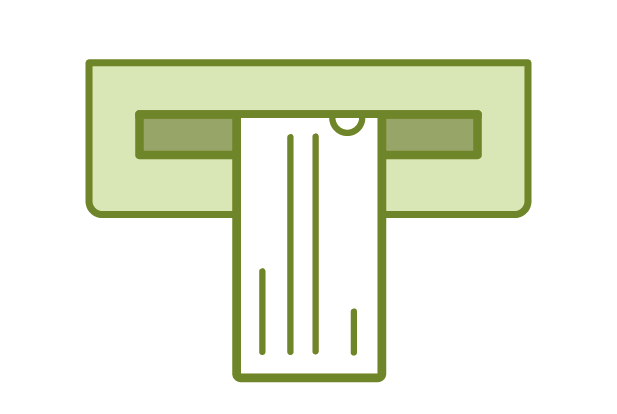
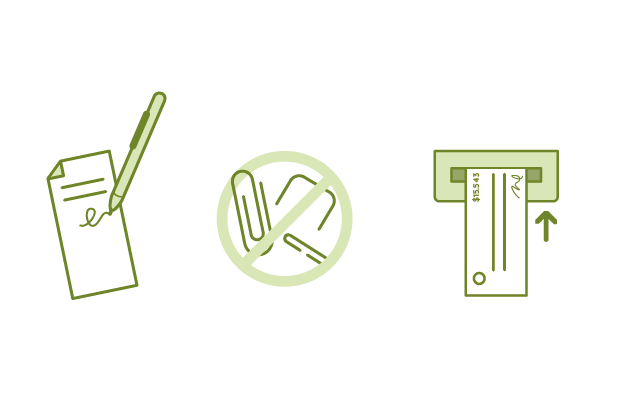
Pantallas e imagen nuevas de Deposito en Cheques

Changed region(s): [[0.0616, 0.1449, 0.9238, 0.9275]]

diff --git a/app/transacciones/depositar/depositar-verificar-deposito-cheques.html b/app/transacciones/depositar/depositar-verificar-deposito-cheques.html
@@ -19,9 +19,9 @@
 		<section class="encabezado">
 			<div class="breadcrumb">
 				<img src="../../img/deposito.svg" alt="">
-				<p><span class="verde-comafi-text">depósitos /</span> elegir destino / ingresar cheques / verificar / ingresar monto / confirmar</p>
+				<p><span class="verde-comafi-text">depósitos /</span> elegir destino / ingresar cheques / verificar</p>
 			</div>
-			<h1 class="titulo gris-oscuro-text">Por favor, confirmá los datos:</h1>
+			<h1 class="titulo gris-oscuro-text">Por favor, verificá los datos:</h1>
 		</section>
 		<section class="cuerpo">
 			<div class="cuerpo-container">
@@ -32,7 +32,8 @@
 							<p class="gris-text valign-wrapper"><i class="material-icons gris-text mg-r-5">local_atm</i></p>
 						</div>
 						<div class="col-2 left mg-l-0 mg-t-10"><p class="gris-oscuro-text">15 cheques</p></div>
-						<h3 class="verde-comafi-text espaciado-2 clear center-align mg-t-300">TOTAL <span class="mg-l-40 espaciado-2">$120.212,50</span></h3>
+						<!-- <h3 class="verde-comafi-text espaciado-2 clear center-align mg-t-75">Total <span class="mg-l-40 espaciado-2">$120.212,50</span></h3> -->
+						<a href="depositar-tutorial-cheques2.html?menu={menu}" class="btn btn-cuerpo mg-l-65 mg-t-300"><i class="material-icons left verde-comafi-text">undo</i><p class="verde-comafi-text">Ingresar más cheques</p></a>
 					</div>
 					<div class="col-right">
 						<h3 class="verde-comafi-text mayus espaciado-1 mg-l-65 mg-t-10 mg-b-15">Depósito en</h3>
@@ -46,14 +47,14 @@
 	</main>
 	<footer>
 		<a href="#modal-cancelar-operacion" class="btn btn-footer primero rojo-text"><i class="material-icons left">close</i><p>Cancelar</p></a>
-		<a href="depositar-comprobante.html?menu={menu}" class="btn btn-footer tercero verde-comafi-text"><i class="material-icons left">check</i><p>Depositar</p></a>
+		<a href="menu-depositos-cheques.html?menu={menu}" class="btn btn-footer tercero"><p>Siguiente</p><i class="material-icons right">keyboard_arrow_right</i></a>
 	</footer>
 	<a href="../mensajes-error/loading-deposito-en-curso.html" class="link"># Depósito en curso</a>
 	<a href="../mensajes-error/loading-esperar-validacion.html" class="link"># Esperar validación</a>
 	<a href="../mensajes-error/mensaje-billetes-cheques-no-reconocidos.html" class="link"># Billetes/Cheques no reconocidos</a>
 	<a href="../mensajes-error/mensaje-muchos-billetes-cheques-no-reconocidos.html" class="link"># Muchos billetes/cheques no reconocidos</a>
 	<a href="../mensajes-error/mensaje-operacion-cancelada-retirar-billetes-cheques.html" class="link"># Operación cancelada</a>
-	<a href="../mensajes-error/mensaje-retirar-billetes.html" class="link"># Retirar billetes</a>
+	<!-- <a href="../mensajes-error/mensaje-retirar-billetes.html" class="link"># Retirar billetes</a> -->
 	@@include('../../_partials/modals.html')
 	@@include('../../_partials/script.html')
 </body>

diff --git a/app/transacciones/depositar/depositar-tutorial-cheques2.html b/app/transacciones/depositar/depositar-tutorial-cheques2.html
@@ -1,0 +1,47 @@
+@@include('../../_partials/header.html')
+<body class="container" id="depositos">
+	<!-- <img src="../../img/depositar-tutorial-cheques.png" alt="" style="opacity: 0.5; position: absolute; z-index: 999;"> -->
+	<header>
+		<img src="../../img/logo.svg" alt="">
+		<div class="logueado valign-wrapper">
+			<div>
+				<p class="nombre-logueado">José Diaz</p>
+				<p class="conexion">Tu última conexión fue el: 5/11/2016</p>
+				<p class="vto-clave">Tu clave vence el: 5/12/2017</p>
+			</div>
+			<div>
+				<i class="material-icons">person</i>
+			</div>
+		</div>
+	</header>
+	<main class="gris-mas-claro">
+		<section class="encabezado">
+			<div class="breadcrumb">
+				<img src="../../img/deposito.svg" alt="">
+				<p><span class="verde-comafi-text">depósitos /</span> elegir destino / ingresar cheques</p>
+			</div>
+			<h1 class="titulo gris-oscuro-text">Ingresá hasta 15 cheques.</h1>
+		</section>
+		<section class="cuerpo">
+			<div class="cuerpo-container">
+				<!-- <div class="img-contenedor centrado"> -->
+					<img src="../../img/deposito-cheque-sin-sobre.png" alt="" class="centrado" width="65%">
+				<!-- </div> -->
+				<!-- <p class="msj-tutorial">Contabilizá el monto total de los cheques a depositar.<br>Recordá que sólo podés ingresar hasta 15 cheques por depósito.</p> -->
+				<div class="msj-tutorial-cheques gris-mas-oscuro-text">
+					<p>Registrá al dorso: sucursal,<br>cuenta, firma y aclaración.</p>
+					<p>No insertes clips<br>o ganchos.</p>
+					<p>Ingresá el cheque<br>como muestra la imagen.</p>
+				</div>
+			</div>
+		</section>
+	</main>
+	<footer>
+		<a href="#modal-cancelar-operacion" class="btn btn-footer primero rojo-text"><i class="material-icons left">close</i><p>Cancelar</p></a>
+	</footer>
+	<a href="depositar-verificar-deposito-cheques.html?menu=depositos" class="link"># Siguiente</a>
+	<a href="javascript:history.go(-1)" class="link"># Volver</a>
+	@@include('../../_partials/modals.html')
+	@@include('../../_partials/script.html')
+</body>
+</html>

diff --git a/app/transacciones/depositar/menu-depositos-cheques.html b/app/transacciones/depositar/menu-depositos-cheques.html
@@ -1,0 +1,44 @@
+@@include('../../_partials/header.html')
+<body class="container" id="depositos">
+	<!-- <img src="../../img/menu-depositos.png" alt="" style="opacity: 0.5; position: absolute; z-index: 999;"> -->
+	<header>
+		<img src="../../img/logo.svg" alt="">
+		<div class="logueado valign-wrapper">
+		<div>
+			<p class="nombre-logueado">José Diaz</p>
+			<p class="conexion">Tu última conexión fue el: 5/11/2016</p>
+			<p class="vto-clave">Tu clave vence el: 5/12/2017</p>
+		</div>
+		<div>
+			<i class="material-icons">person</i>
+		</div>
+	</div>
+	</header>
+	<main class="gris-mas-claro">
+		<section class="encabezado">
+			<div class="breadcrumb">
+				<img src="../../img/deposito.svg" alt="">
+				<p><span class="verde-comafi-text">depósitos /</span> elegir destino / ingresar cheques / verificar / ingresar monto</p>
+			</div>
+			<h1 class="titulo gris-oscuro-text">¿Cómo querés ingresar el monto en cheques a depositar?</h1>
+		</section>
+		<section class="submenu-deposito centrado">
+			<!-- <div class="valign-wrapper">
+				<img src="../../img/deposito.svg" alt="">
+				<p class="verde-comafi-text espaciado-1">DEPÓSITOS</p>
+			</div> -->
+			<div class="botonera">
+				<a href="depositar-importe-a-depositar.html?menu={menu}" class="btn btn-submenu blanco-text"><p>Monto total</p></a>
+				<a href="depositar-efectivo.html?menu={menu}" class="btn btn-submenu blanco-text"><p>Cehque por cheque</p></a>
+				<!-- <a href="depositar-cheques.html?menu={menu}" class="btn btn-submenu blanco-text"><p>Cheques</p></a> -->
+			</div>
+		</section>
+	</main>
+	<footer>
+		<a href="../general/salir-CT.html" class="btn btn-footer primero rojo-text"><i class="material-icons left">exit_to_app</i><p>Salir</p></a>
+		<a href="../../menu-principal.html" class="btn btn-footer segundo"><i class="material-icons left">home</i><p>Ir a inicio</p></a>
+	</footer>
+	@@include('../../_partials/modals.html')
+	@@include('../../_partials/script.html')
+</body>
+</html>

diff --git a/app/transacciones/depositar/depositar-importe-a-depositar-cheque-por-cheque.html b/app/transacciones/depositar/depositar-importe-a-depositar-cheque-por-cheque.html
@@ -21,10 +21,13 @@
 				<img src="../../img/deposito.svg" alt="">
 				<p><span class="verde-comafi-text">depósitos /</span> elegir destino / ingresar cheques / verificar / ingresar monto</p>
 			</div>
-			<h1 class="titulo gris-oscuro-text">Ingresá el importe a depositar</h1>
+			<h1 class="titulo gris-oscuro-text">Ingresá el importe de cada cheque que se visualice en pantalla</h1>
 		</section>
 		<section class="cuerpo">
 			<div class="gris-mas-claro cuerpo-container">
+				<div class="cheque-por-cheque">
+
+				</div>
 				<div class="teclado-numerico">
 					<div class="inputs mg-t-15">
 						<input class="teclado" type="text" placeholder="Importe total">

diff --git a/app/sass/_layout.scss b/app/sass/_layout.scss
@@ -220,9 +220,13 @@ main {
 			width: 400px;
 			height: auto;
 			min-height: 225px;
-			padding-bottom: 25px;
+			padding: 35px 0 10px 0;
 			flex-wrap: wrap;
 			-webkit-flex-wrap: wrap;
+			& > div.valign-wrapper {
+				position: relative;
+				top: -20px;
+			}
 			& > div {
 				justify-content: center;
 				-webkit-justify-content: center;
@@ -627,6 +631,14 @@ main {
 						font-size: 20px;
 					}
 				}
+			}
+			.cheque-por-cheque {
+				width: 444px;
+				height: 435px;
+				float: left;
+				margin-top: 15px;
+				margin-right: 10px;
+				background: $blanco;
 			}
 			.iniciar-sesion {
 				margin: 30px 40px;

diff --git a/app/sass/_particularidades.scss b/app/sass/_particularidades.scss
@@ -20,6 +20,26 @@
   color: $gris-oscuro;
 }
 
+.msj-tutorial-cheques {
+  position: relative;
+  top: 325px;
+  p {
+    position: absolute;
+    display: inline;
+    font-size: 17px;
+    text-align: center;
+    &:nth-of-type(1) {
+      left: 120px;
+    }
+    &:nth-of-type(2) {
+      left: 357px;
+    }
+    &:nth-of-type(3) {
+      left: 555px;
+    }
+  }
+}
+
 /* Depósito Efectivo */
 input[type=radio]:checked ~ .inputs.numCbu > input.numCbu {
   border-color: $verde-comafi;
